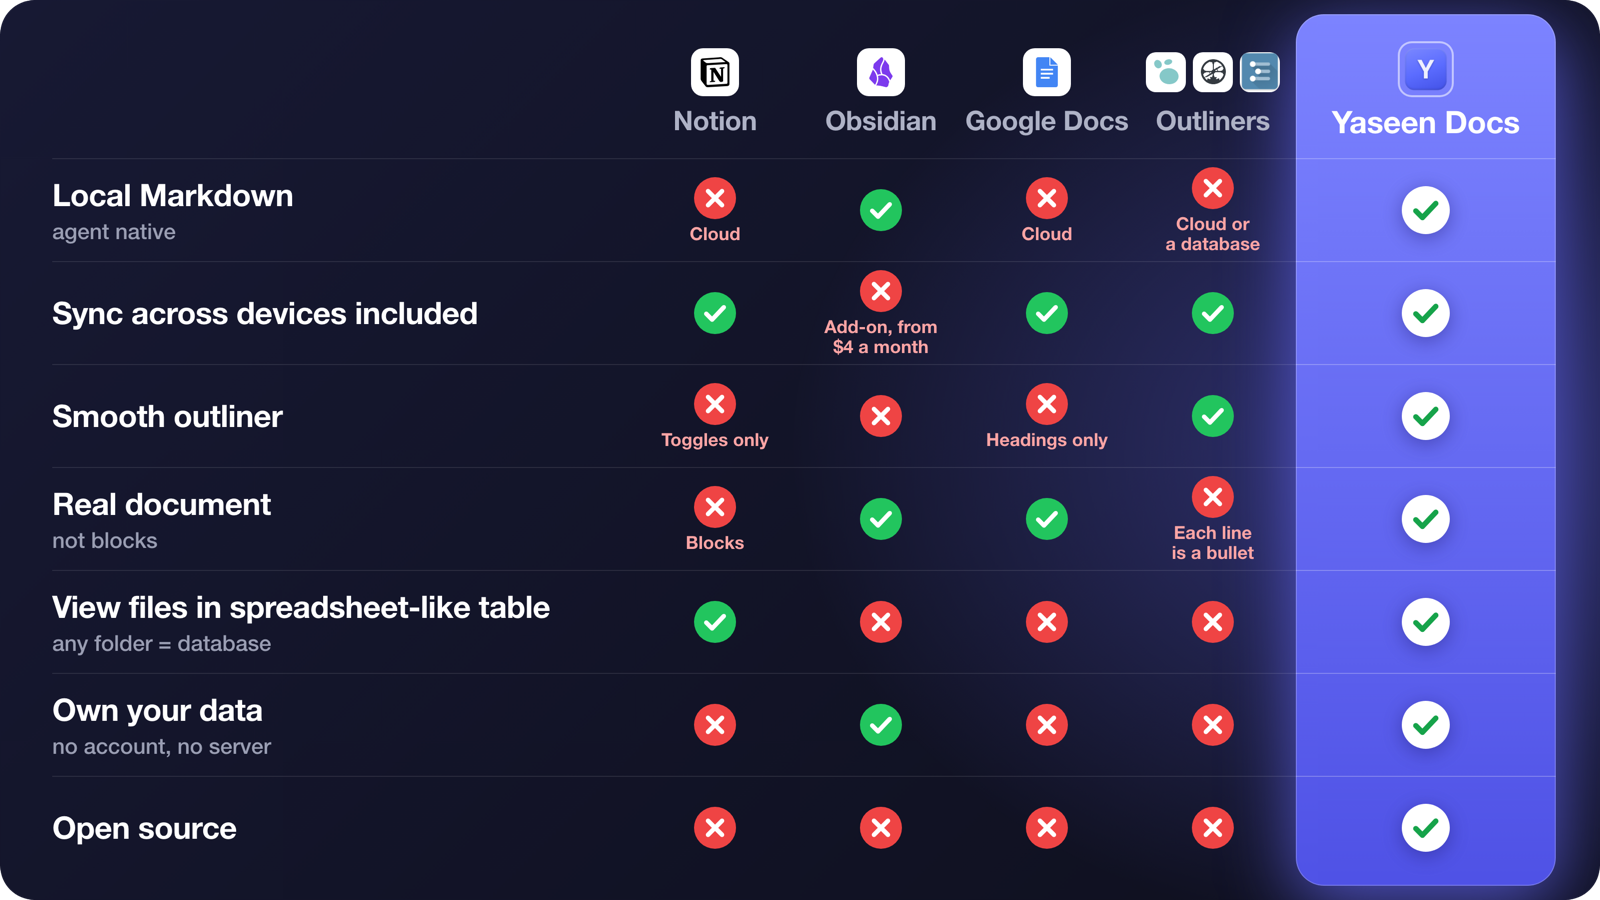
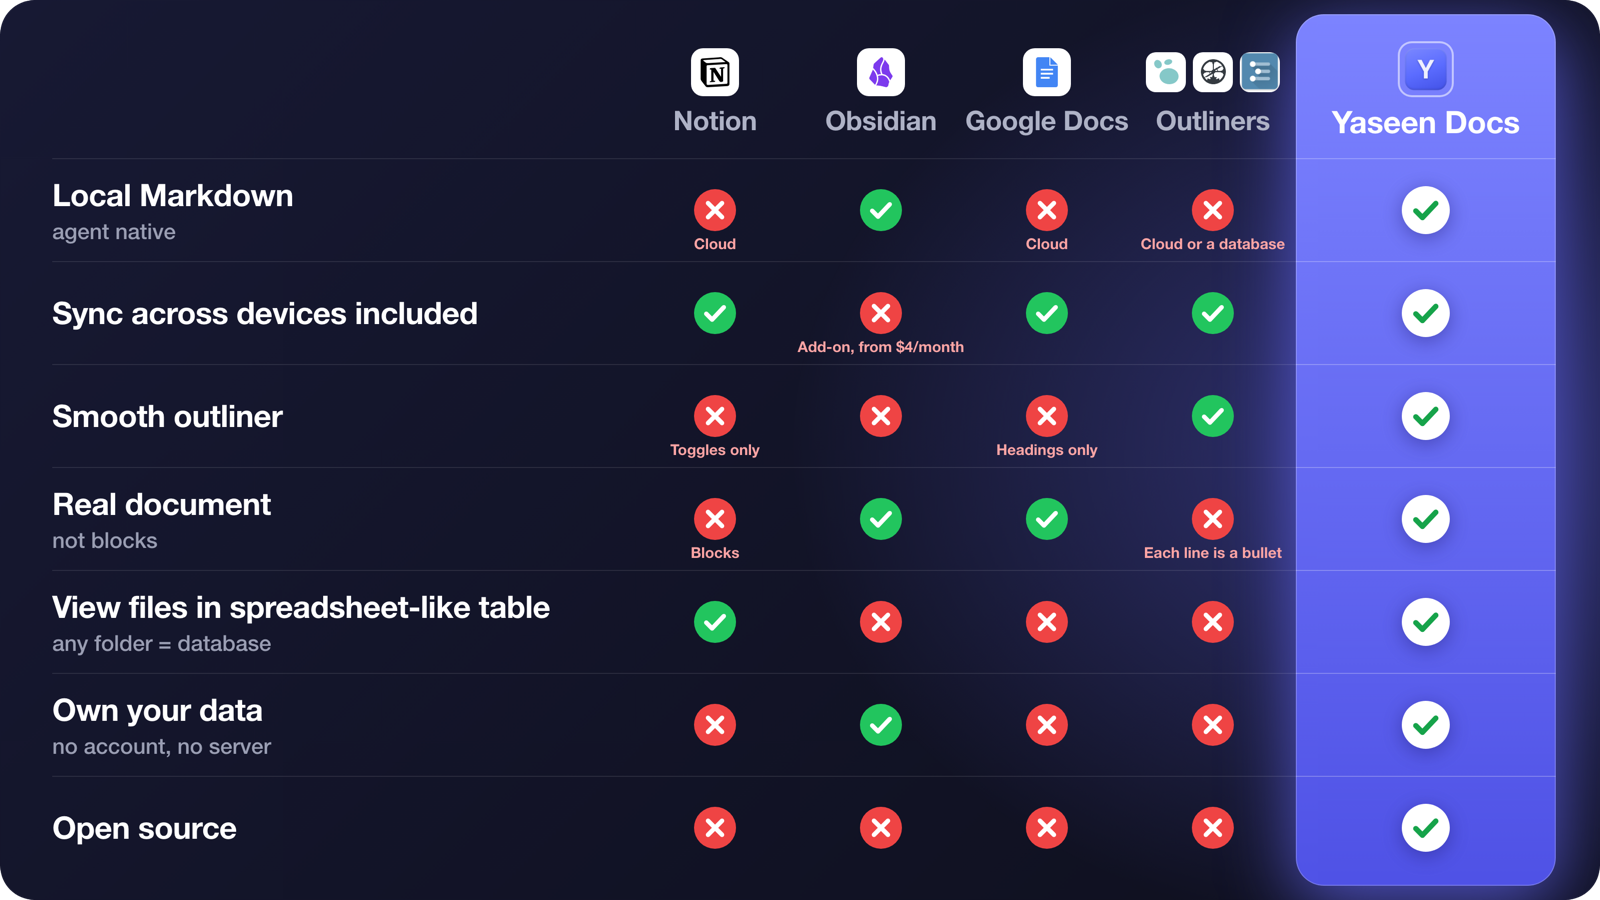
docs(readme): the marks of a row are on one line in the comparison picture
A note now hangs below its mark, in smaller text, and does not push the mark up.

diff --git a/tools/readmeMedia/compare.html b/tools/readmeMedia/compare.html
@@ -38,11 +38,12 @@
   .name, .cell { height: 102px; border-top: 1px solid rgba(255, 255, 255, .1); }
   .name { display: flex; flex-direction: column; justify-content: center; gap: 4px; font-size: 31px; font-weight: 700; letter-spacing: -.4px; color: #fff; }
   .name small { font-size: 22px; font-weight: 500; letter-spacing: -.1px; color: #9a9eb3; }
-  .cell { display: flex; flex-direction: column; align-items: center; justify-content: center; gap: 4px; }
+  .cell { position: relative; display: flex; align-items: center; justify-content: center; }
   .cell.us { border-top-color: rgba(255, 255, 255, .26); }
   .cell svg { width: 42px; height: 42px; display: block; flex: none; }
   .cell.us svg { width: 48px; height: 48px; filter: drop-shadow(0 4px 10px rgba(30, 27, 110, .45)); }
-  .cell span { max-width: 160px; font-size: 18px; font-weight: 600; line-height: 1.12; color: #fca5a5; text-align: center; }
+  /* A note hangs below its mark, so the marks of a row stay on one line. */
+  .cell span { position: absolute; left: 50%; top: calc(50% + 25px); transform: translateX(-50%); white-space: nowrap; font-size: 15px; font-weight: 600; line-height: 1.1; color: #fca5a5; }
 </style>
 </head>
 <body>
@@ -73,10 +74,10 @@
   // [what the reader gets, its small print, Notion, Obsidian, Google Docs, the outliners, Yaseen Docs]
   // — a cell is yes / no, or [yes / no, a note]. A tick of Yaseen Docs has no note.
   const ROWS = [
-    ['Local Markdown', 'agent native', [false, 'Cloud'], true, [false, 'Cloud'], [false, 'Cloud or<br>a database'], true],
-    ['Sync across devices included', '', true, [false, 'Add-on, from<br>$4 a month'], true, true, true],
+    ['Local Markdown', 'agent native', [false, 'Cloud'], true, [false, 'Cloud'], [false, 'Cloud or a database'], true],
+    ['Sync across devices included', '', true, [false, 'Add-on, from $4/month'], true, true, true],
     ['Smooth outliner', '', [false, 'Toggles only'], false, [false, 'Headings only'], true, true],
-    ['Real document', 'not blocks', [false, 'Blocks'], true, true, [false, 'Each line<br>is a bullet'], true],
+    ['Real document', 'not blocks', [false, 'Blocks'], true, true, [false, 'Each line is a bullet'], true],
     ['View files in spreadsheet-like table', 'any folder = database', true, false, false, false, true],
     ['Own your data', 'no account, no server', false, true, false, false, true],
     ['Open source', '', false, false, false, false, true],
